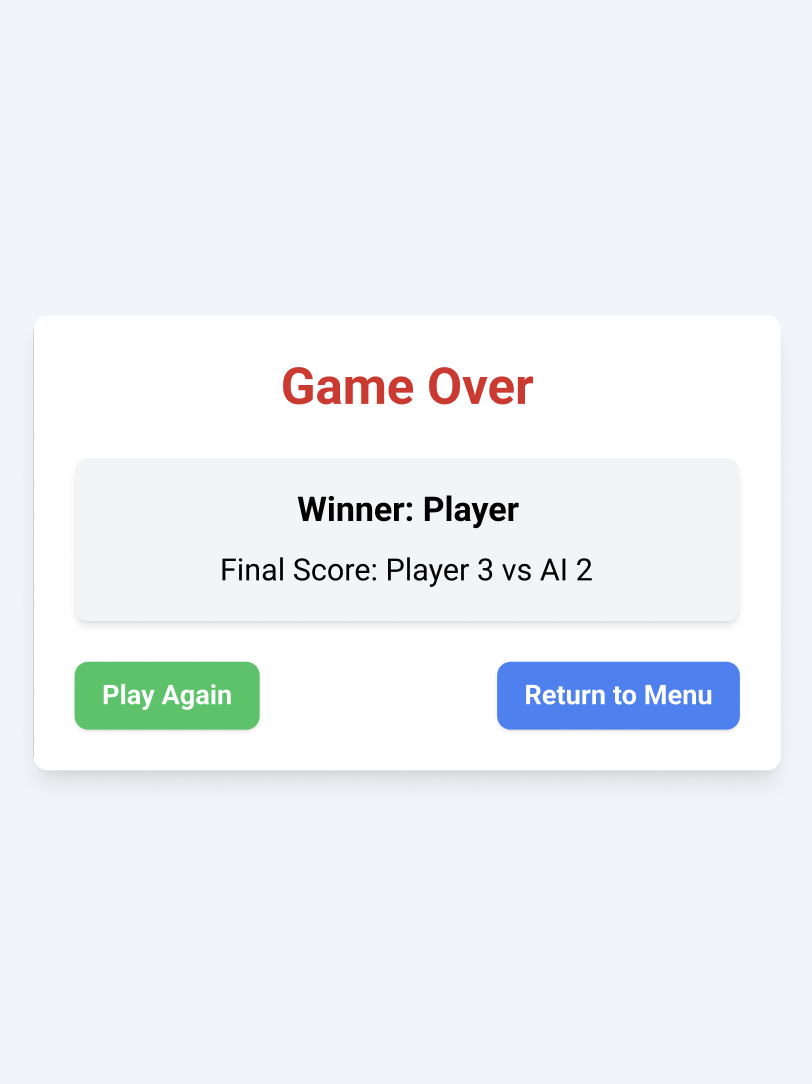
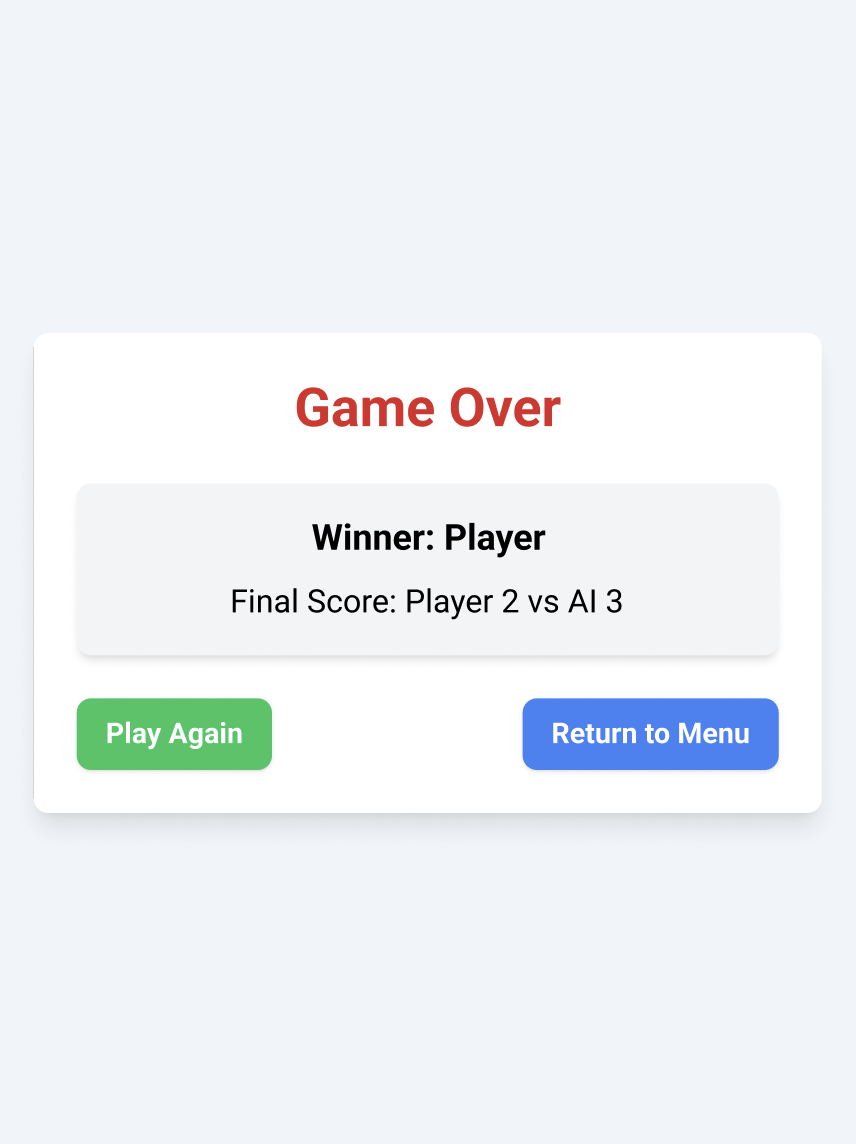
docs: add navigation flow and project structure to README + add You Won Screen

diff --git a/README.md b/README.md
@@ -1,97 +1,160 @@
 # 🐾 Animal Battle
 
-Ett enkelt men unikt kortspel för Android utvecklat i Kotlin. Spelet är turbaserat och bygger på snabba dueller mellan spelaren och en AI, där varje runda avgörs av vilket djurkort man drar och vilken handling man väljer.
-
-### 🎯 Spelidé
-
-Spelaren och AI:n får varsitt djurkort. Varje kort har tre egenskaper:
-
-• Namn
-• Styrka (en siffra som påverkar duellen)
-• Personlighet (styr hur AI:n beter sig)
-
-Spelaren väljer sedan en av två handlingar:
-
-• Attack
-• Defend
-
-Rundan avgörs genom enkel jämförelse av styrka och valda handlingar. Först till ett visst antal poäng vinner matchen.
-
-### 🤖 AI – Personality System
-
-I stället för att AI:n alltid gör det optimala valet använder spelet ett enkelt personlighetssystem.
-Det gör AI:n mer varierad och spelet mer levande.
-
-AGGRESSIVE
-– Föredrar att Attackera
-– Passar djur som är starka eller offensiva
-
-DEFENSIVE
-– Föredrar att Försvara
-– Passar djur som är långsamma eller försiktiga
-
-RANDOM
-– Gör helt slumpmässiga val
-– Passar oförutsägbara djur
-
-AI:n väljer handling baserat på djurets personlighet och inte bara styrkan.
-Det gör spelet både balanserat och roligt, utan att AI:n känns “perfekt”.
-
-### 🐗 Exempel på djurkort (koncept)
-
-Här är exempel på hur djuren i spelet kan vara utformade:
-
-Björn
-– Styrka: Hög
-– Personlighet: Aggressive
-
-Hare
-– Styrka: Låg
-– Personlighet: Defensive
-
-Tvättbjörn
-– Styrka: Medel
-– Personlighet: Random
-
-Djurens bilder (om de används) läggs i res/drawable/.
-
-### 📱 UI – Skiss / Struktur
-
-Startskärm
-– Knapp: “Start Game”
-– Titel och enkel grafik
-
-Spelskärm
-– Spelarens kort: namn, styrka, personlighet, bild
-– AI:s kort (dolt tills rundan avslutas)
-– Knappar: Attack / Defend
-– Poängställning
-– Resultattext (“You won the round”, etc.)
-
-Game Over
-– Vinnare visas
-– Knapp: “Play Again”
-
-### 📱 UI Design Preview
-
-Här är UI-skisserna för spelet **Animal Battle**, genererade som tidiga mockups för att illustrera spelets olika skärmar.
+Animal Battle är ett enkelt men unikt Android-kortspel utvecklat i **Kotlin**. Spelet är turbaserat och bygger på snabba dueller mellan spelaren och en AI där varje runda avgörs av vilket djurkort man drar och vilken handling man väljer.
 
 ---
 
-#### 🏁 Start Screen
+## 🎯 Spelidé
+
+Varje runda får både spelaren och AI:n varsitt djurkort.  
+Varje kort har:
+
+- **Namn**
+- **Styrka**
+- **Personlighet**
+
+Spelaren väljer mellan:
+
+- **Attack**
+- **Defend**
+
+Resultatet avgörs genom styrka + valda handlingar. Först till vald poäng vinner matchen.
+
+---
+
+## 🤖 AI – Personality System
+
+AI:n använder ett enkelt personlighetssystem för att göra spelet mer varierat.
+
+### 🟥 Aggressive
+- Föredrar Attack
+- Passar starka djur
+
+### 🟦 Defensive
+- Föredrar Defend
+- Passar snabba / försiktiga djur
+
+### 🟩 Random
+- Gör helt slumpmässiga val
+
+---
+
+## 🐗 Exempel på djurkort
+
+**🧸 Björn**
+- Styrka: Hög
+- Personlighet: Aggressive
+
+**🐇 Hare**
+- Styrka: Låg
+- Personlighet: Defensive
+
+**🦝 Tvättbjörn**
+- Styrka: Medel
+- Personlighet: Random
+
+Bilder läggs i `res/drawable/`.
+
+---
+
+## 📱 UI – Skiss / Struktur
+
+### 🏁 Startskärm
+- Titel: *Animal Battle*
+- Knapp: **Start Game**
+
+### ⚔ Spelskärm
+- Spelarens kort (bild, namn, styrka, personlighet)
+- AI:s kort (dolt tills rundan avslutas)
+- Knappar: **Attack** / **Defend**
+- Poängställning
+- Resultattext (t.ex. *You won the round!*)
+
+### 🎯 Round Result
+- Visar båda korten
+- Visar valda handlingar
+- Visar resultatet
+- Knapp: **Next Round**
+
+### 🏆 You Won / 💀 Game Over
+- Rubrik ändras beroende på om spelaren vann eller förlorade
+- Visar slutpoäng
+- Knapp: **Play Again**
+- Knapp: **Return to Menu**
+
+---
+
+## 🎨 UI Design Preview
+
+### 🏁 Start Screen
 ![Start Screen](docs/start_screen.png)
 
----
-
-#### ⚔ Gameplay Screen
+### ⚔ Gameplay Screen
 ![Gameplay Screen](docs/gameplay_screen.png)
 
----
-
-#### 🎯 Round Result Screen
+### 🎯 Round Result Screen
 ![Round Result](docs/round_result.png)
 
+### 🟢 You Won Screen
+![You Won](docs/you_won.png)
+
+### 🔴 Game Over Screen
+![Game Over](docs/game_over.png)
+
 ---
 
-#### 💀 Game Over Screen
-![Game Over](docs/game_over.png)
+## 🧩 Appens Struktur (Navigation Flow)
+
+```
+MainActivity  (Start Screen)
+ └── GameActivity  (Gameplay)
+        ├── RoundResultActivity  (Runda-resultat)
+        │       └── Tillbaka till GameActivity
+        └── GameOverActivity  (Slutresultat)
+                ├── Play Again → GameActivity
+                └── Return to Menu → MainActivity
+```
+
+---
+
+## 🗂 Projektstruktur (Filer och mappar)
+
+```
+app/
+ ├── java/
+ │    └── com.example.animalbattle/
+ │           ├── MainActivity.kt
+ │           ├── GameActivity.kt
+ │           ├── RoundResultActivity.kt
+ │           ├── GameOverActivity.kt
+ │           │
+ │           ├── data/
+ │           │      ├── AnimalCard.kt
+ │           │      ├── Deck.kt
+ │           │      └── Personality.kt
+ │           │
+ │           ├── logic/
+ │           │      ├── AiLogic.kt
+ │           │      └── GameLogic.kt
+ │           │
+ │           └── util/
+ │                  └── ScoreManager.kt
+ │
+ ├── res/
+ │    ├── layout/
+ │    │      ├── activity_main.xml
+ │    │      ├── activity_game.xml
+ │    │      ├── activity_round_result.xml
+ │    │      └── activity_game_over.xml
+ │    │
+ │    ├── drawable/
+ │    │      ├── *.png (djurkort)
+ │    │      └── card_back.png
+ │    │
+ │    └── values/
+ │           ├── colors.xml
+ │           ├── styles.xml
+ │           └── strings.xml
+ │
+ └── AndroidManifest.xml
+```
